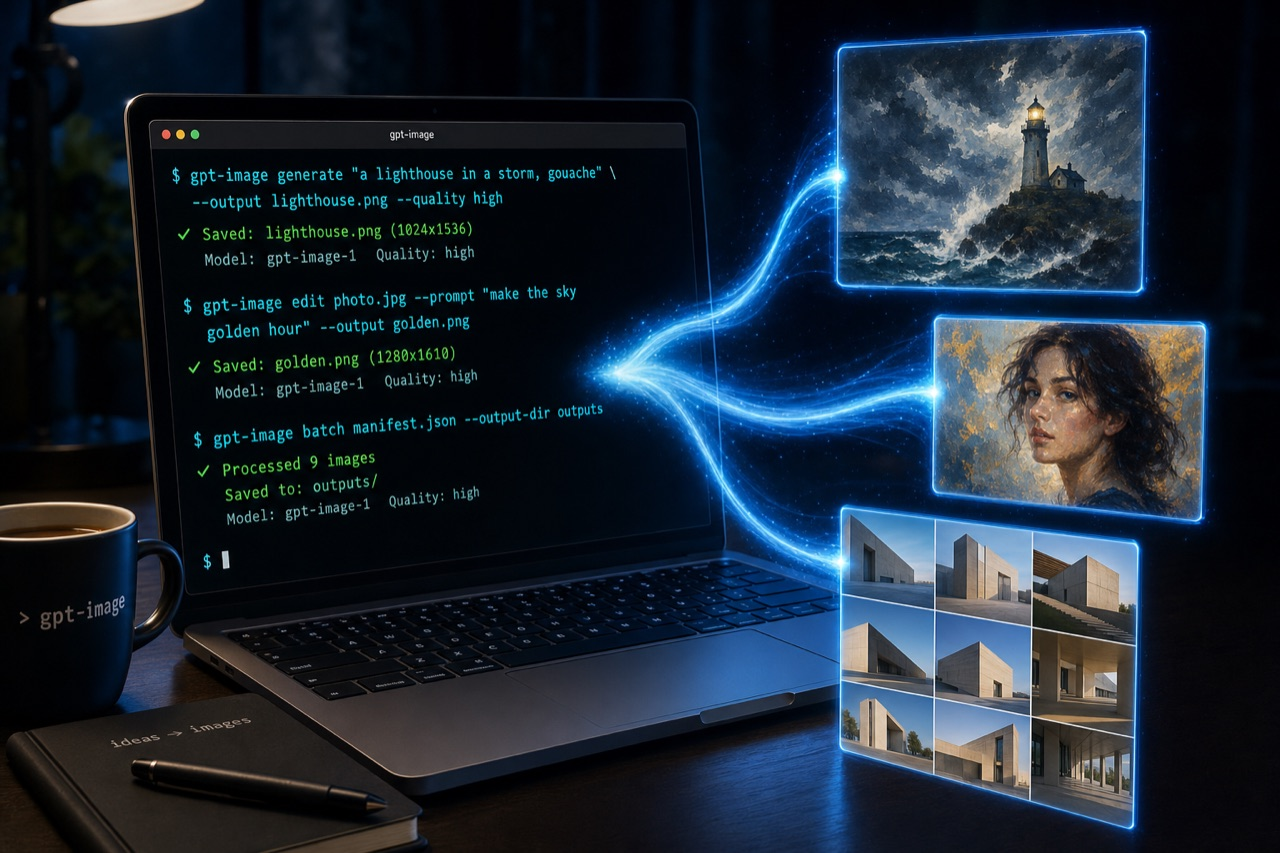
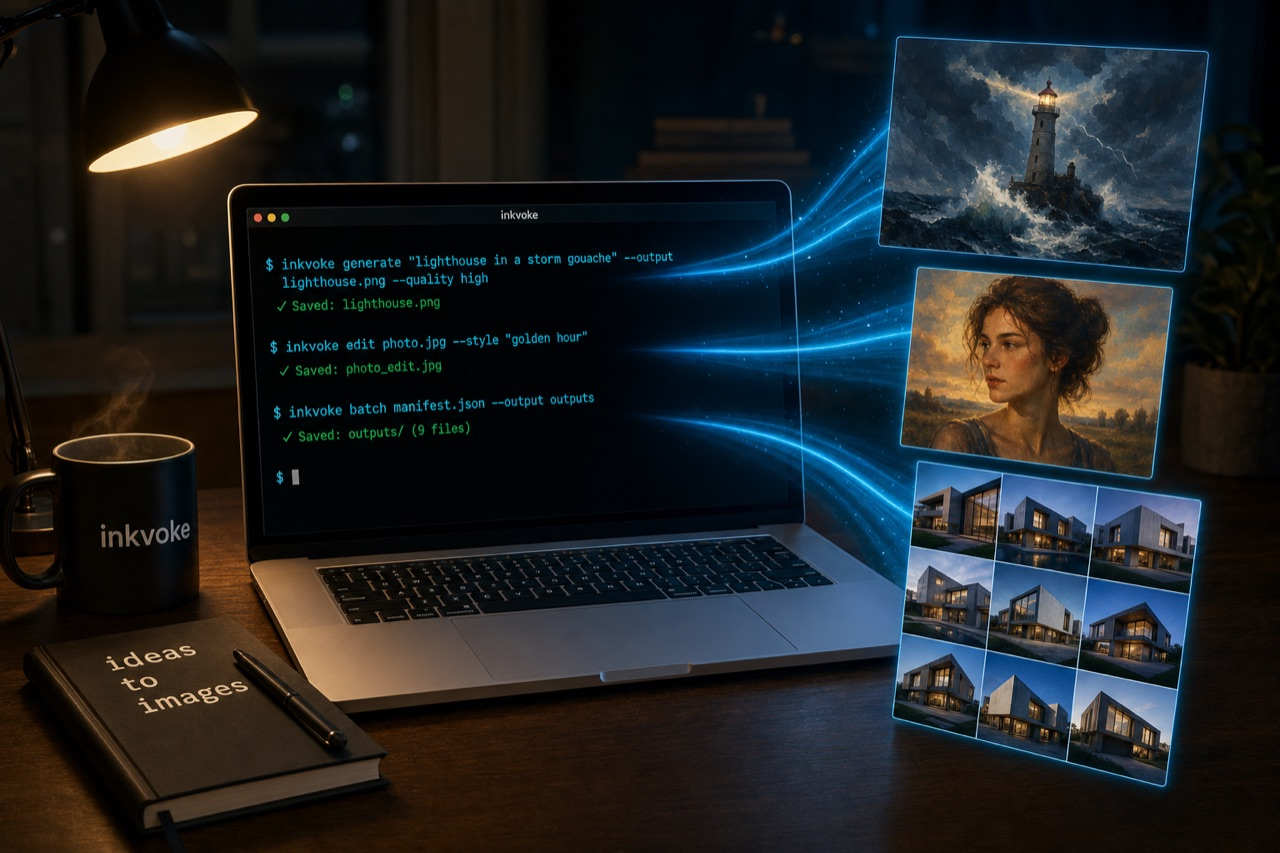
Replace inkvoke product hero with inkvoke-branded shot and clarify history captions.
Regenerate tool.png with inkvoke generate so the product illustration shows inkvoke (not the former gpt-image name), refresh the portfolio thumbnail, and update hero captions for the Go product shot vs the Python-era first version.

diff --git a/inkvoke/index.html b/inkvoke/index.html
@@ -466,13 +466,13 @@
             src="tool.png"
             width="1536"
             height="1024"
-            alt="Product illustration of the inkvoke Go CLI: a dark terminal generating a lighthouse, a portrait edit, and a batch grid of images"
+            alt="Product illustration of the inkvoke Go CLI: laptop terminal running inkvoke generate, edit, and batch, with floating lighthouse, portrait, and architecture outputs"
           >
         </div>
         <p class="img-caption mono" id="hero-image-caption">
-          Illustration of the tool itself - terminal in, images out (generate, edit, batch).
-          Also made with <span class="c-accent">inkvoke generate</span> (Go binary, v1.0.0).
-          <span class="click-hint">Click the image</span> for the original Python-era product shot, then community samples.
+          Current product shot - terminal in, images out (generate, edit, batch). Branding: <span class="c-accent">inkvoke</span>.
+          Made with <span class="c-accent">inkvoke generate</span> (Go binary, v1.0.1).
+          <span class="click-hint">Click the image</span> for the original Python-era shot (when it was still named gpt-image), then community samples.
         </p>
       </div>
 
@@ -1575,20 +1575,21 @@ sudo inkvoke --uninstall</pre>
       var TOOL_SLIDE = {
         src: 'tool.png',
         title: 'tool.png · inkvoke as a product (Go)',
-        alt: 'Product illustration of the inkvoke Go CLI: a dark terminal generating a lighthouse, a portrait edit, and a batch grid of images',
+        alt: 'Product illustration of the inkvoke Go CLI: laptop terminal running inkvoke generate, edit, and batch, with floating lighthouse, portrait, and architecture outputs',
         captionHtml:
-          'Illustration of the tool itself - terminal in, images out (generate, edit, batch). ' +
-          'Also made with <span class="c-accent">inkvoke generate</span> (Go binary, v1.0.0). ' +
-          '<span class="click-hint">Click the image</span> for the original Python-era product shot, then community samples.'
+          'Current product shot - terminal in, images out (generate, edit, batch). Branding: <span class="c-accent">inkvoke</span>. ' +
+          'Made with <span class="c-accent">inkvoke generate</span> (Go binary, v1.0.1). ' +
+          '<span class="click-hint">Click the image</span> for the original Python-era shot (when it was still named gpt-image), then community samples.'
       };
 
       var TOOL_PYTHON_SLIDE = {
         src: 'tool-python-legacy.png',
-        title: 'tool.png · first version (Python)',
-        alt: 'Original product illustration of inkvoke when it was a Python CLI: terminal showing python gpt_image.py generate and edit commands with floating output images',
+        title: 'tool-python-legacy.png · first version (Python · gpt-image)',
+        alt: 'Original product illustration from the first version: a Python CLI named gpt-image, with terminal showing python gpt_image.py generate and edit commands and floating output images',
         captionHtml:
-          'Original product illustration. The <strong>first version of inkvoke used Python</strong> ' +
-          '(<span class="mono">python gpt_image.py …</span>); v0.2+ is a single Go binary, and v0.3.0 adds <span class="mono">--json</span> / exit codes for agents. ' +
+          'History: the <strong>first version was a Python script named <span class="mono">gpt-image</span></strong> ' +
+          '(<span class="mono">python gpt_image.py …</span>). Renamed to <span class="c-accent">inkvoke</span> in v1.0.0; ' +
+          'v0.2+ is a single Go binary; v0.3.0 added <span class="mono">--json</span> / exit codes for agents. ' +
           '<span class="click-hint">Click</span> for community samples (including lighthouse.png).'
       };
 
